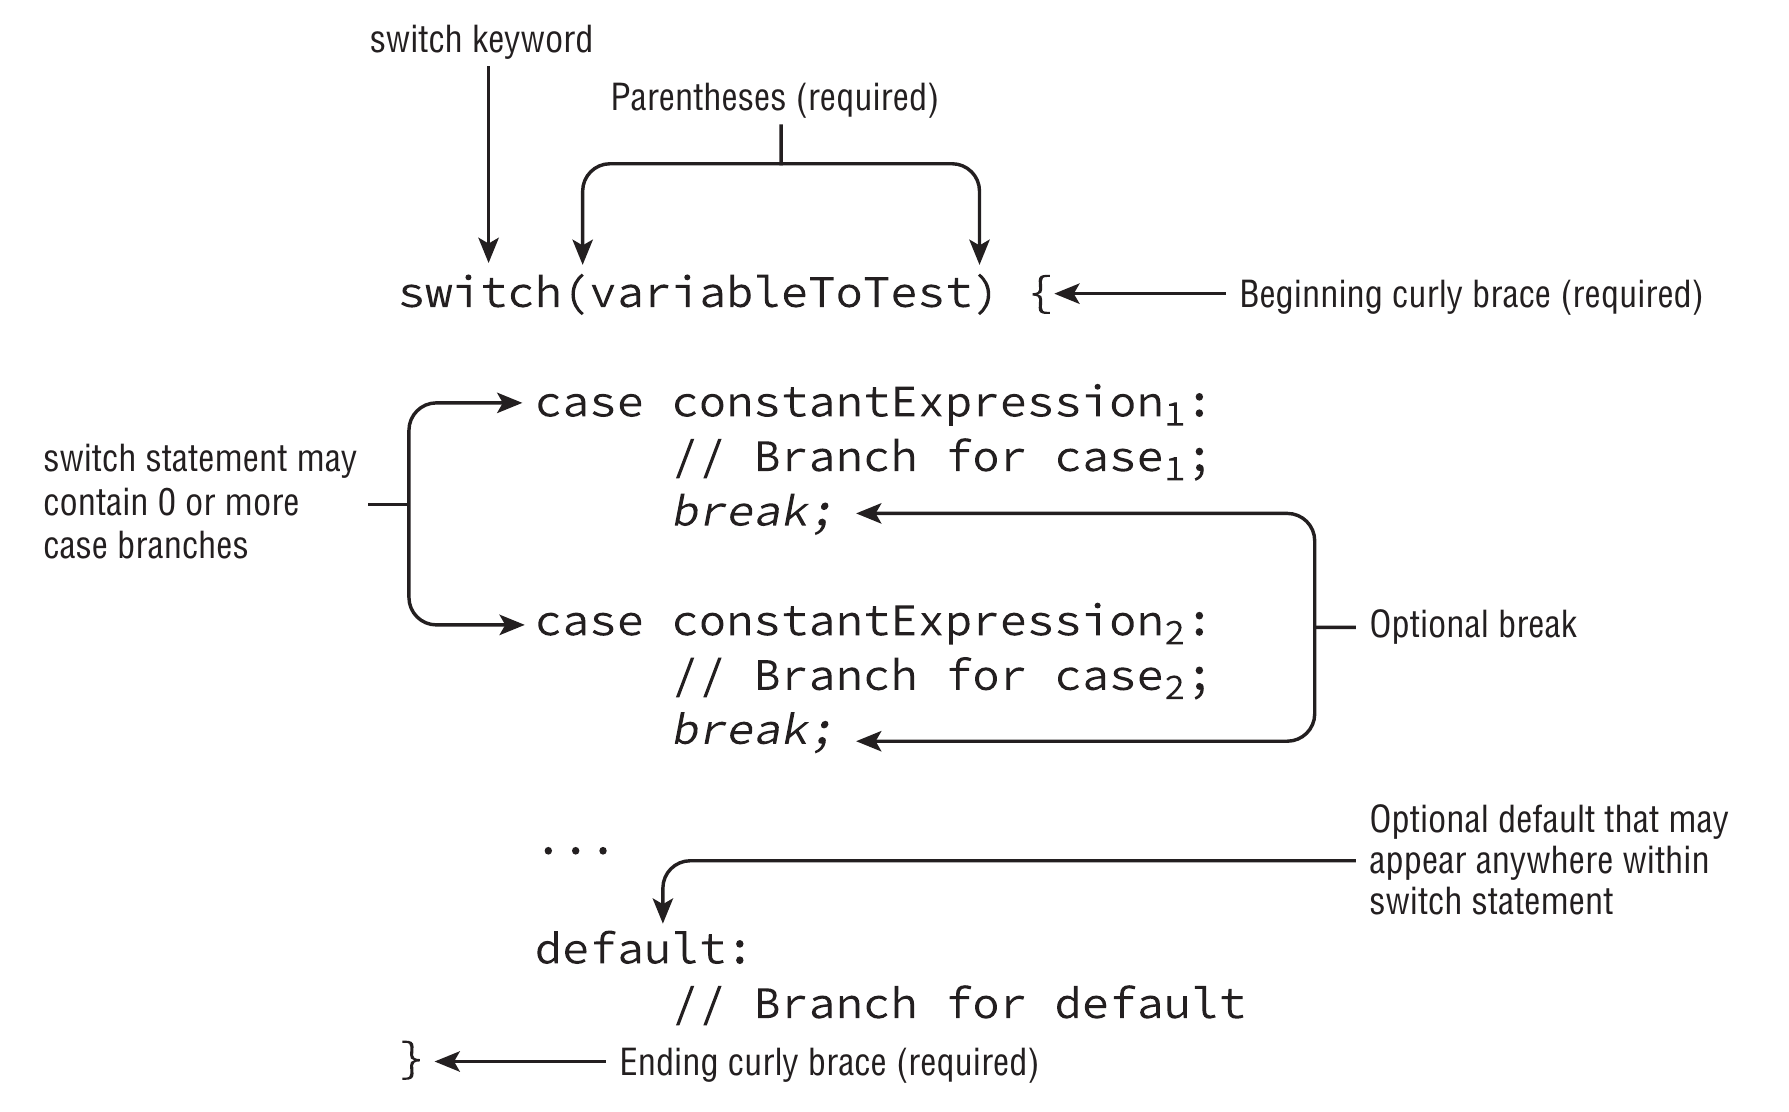
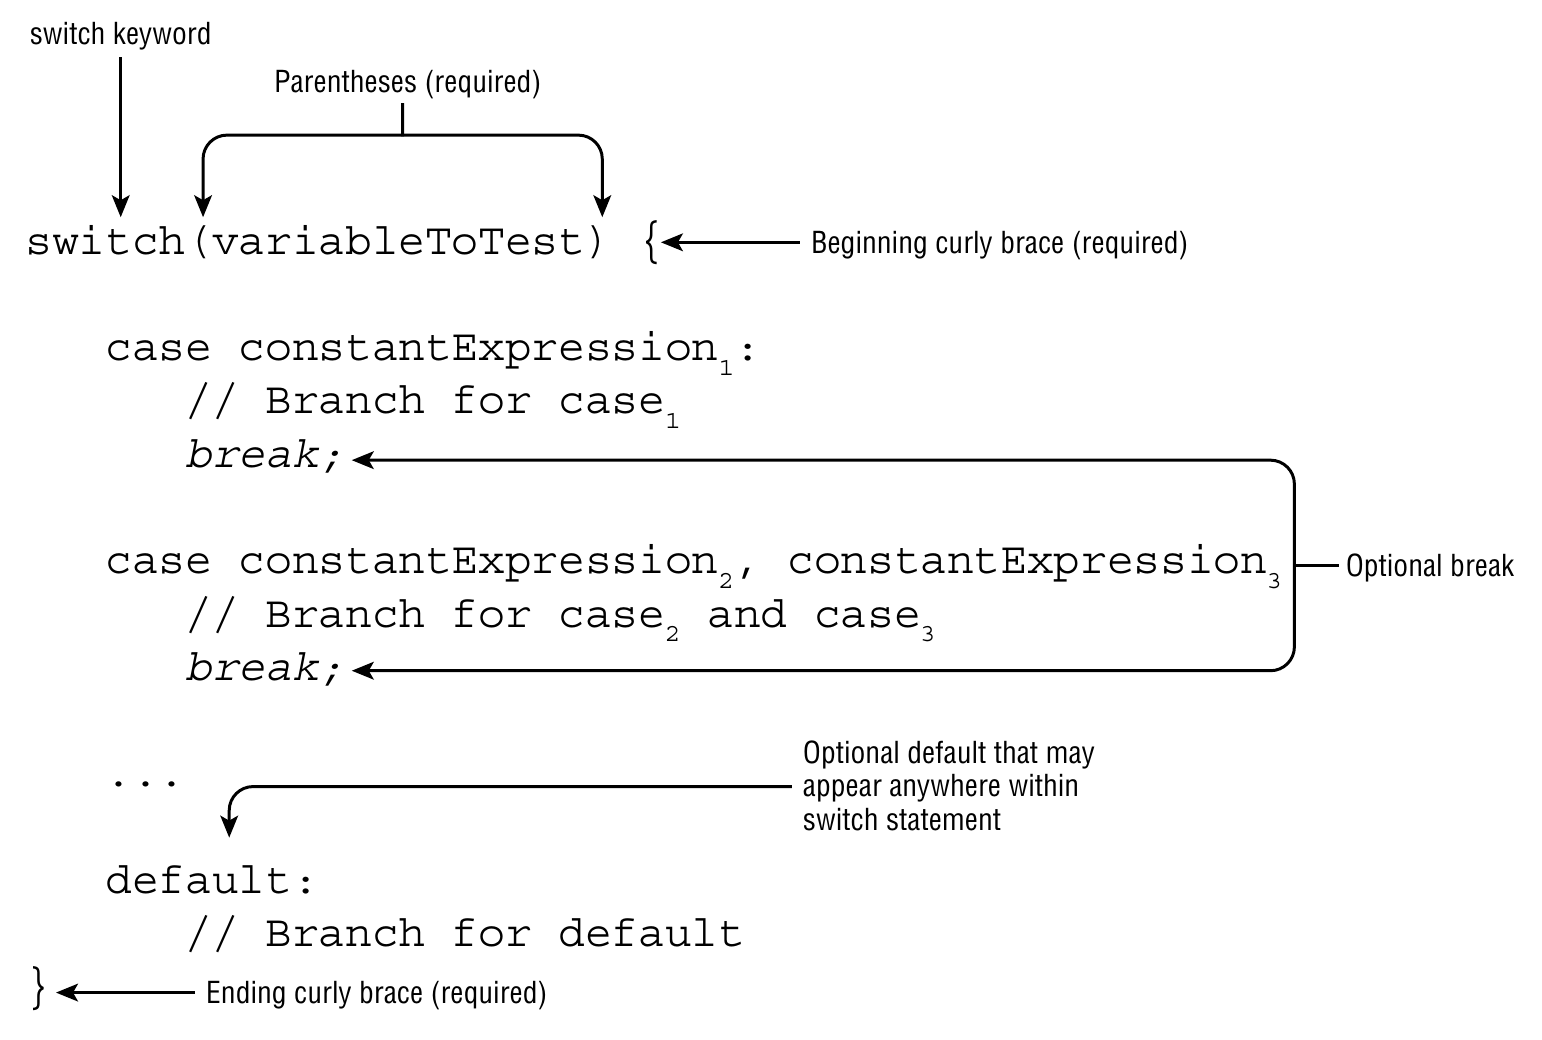
[java] Improve switch note (java 14 syntax)

diff --git a/java/conditionals/switch.md b/java/conditionals/switch.md
@@ -2,12 +2,13 @@
 
 ![switch_basic_syntax](../assets/switch_basic_syntax.png)
 
+> This switch version with `case` values combined was introduced in **Java 14**
+
 ## Basic syntax
 
 ``` java
 switch (option) {
-    case "A":
-    case "B":
+    case "A", "B": // Multiple case values in a single case statement
         // Statements A and B
         break;
     case "C":
@@ -28,6 +29,7 @@ This also includes their wrappers for the primitive types
 - `int`
 - `enum`
 - `String`
+- `var` (if the type resolves to one of the preceding types)
 
 ## `case` constants
 
